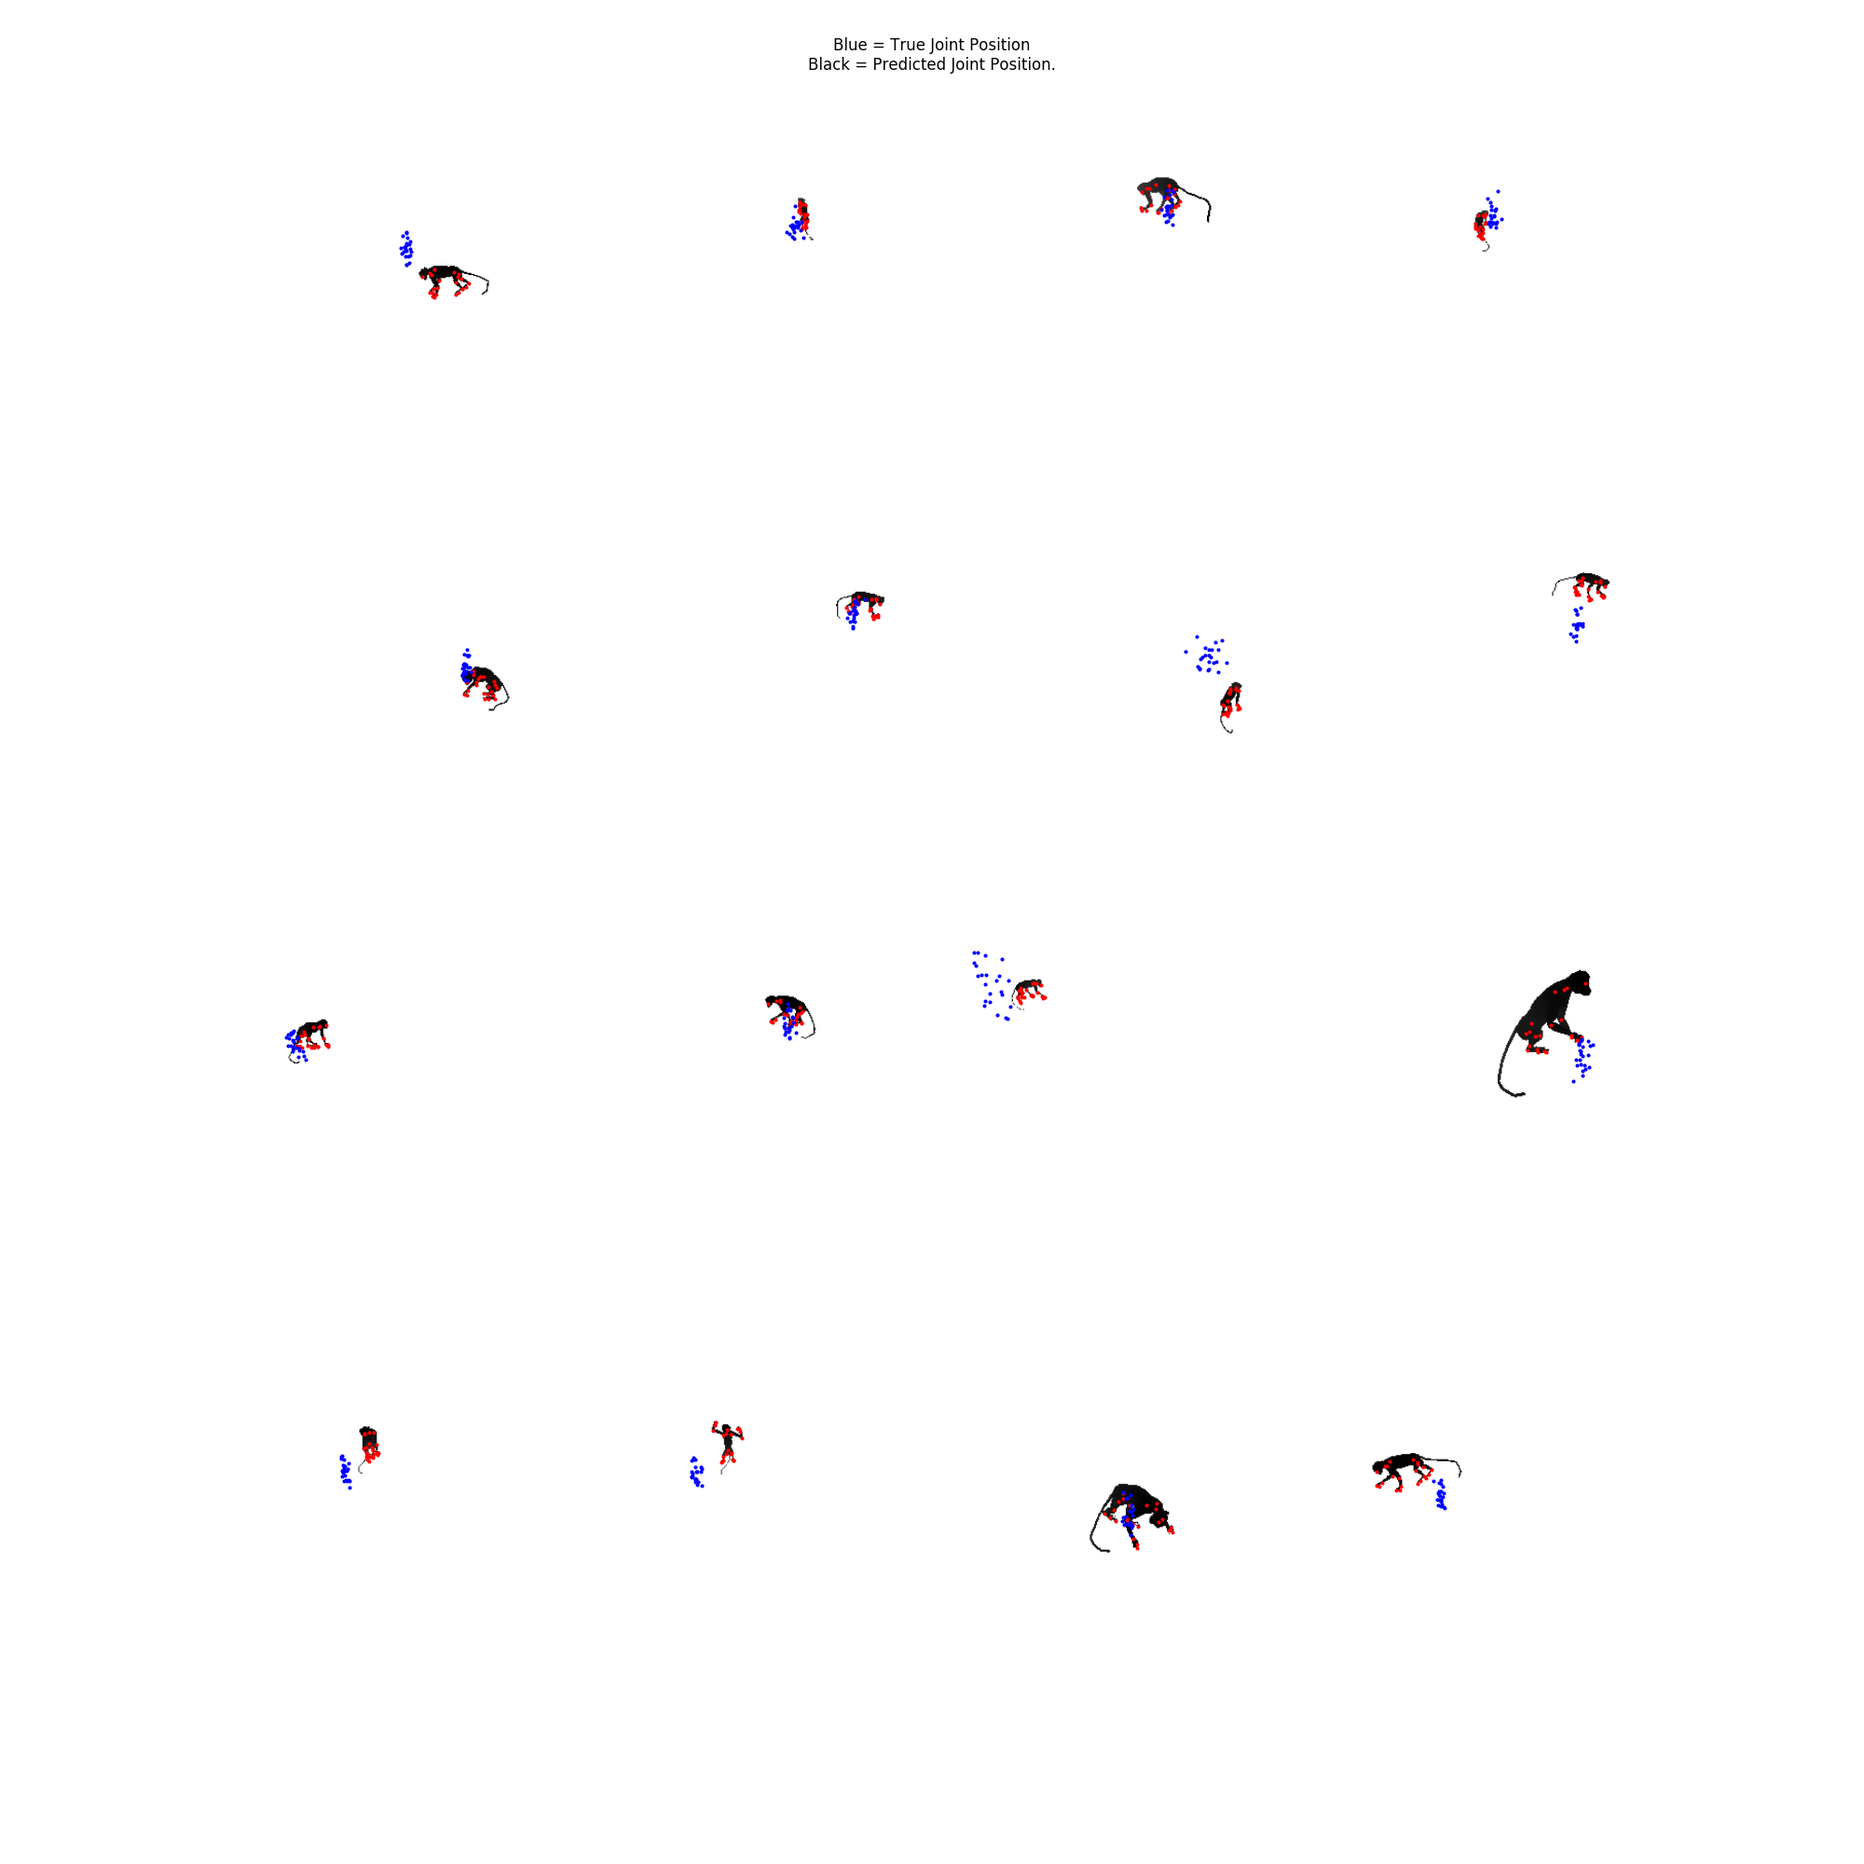
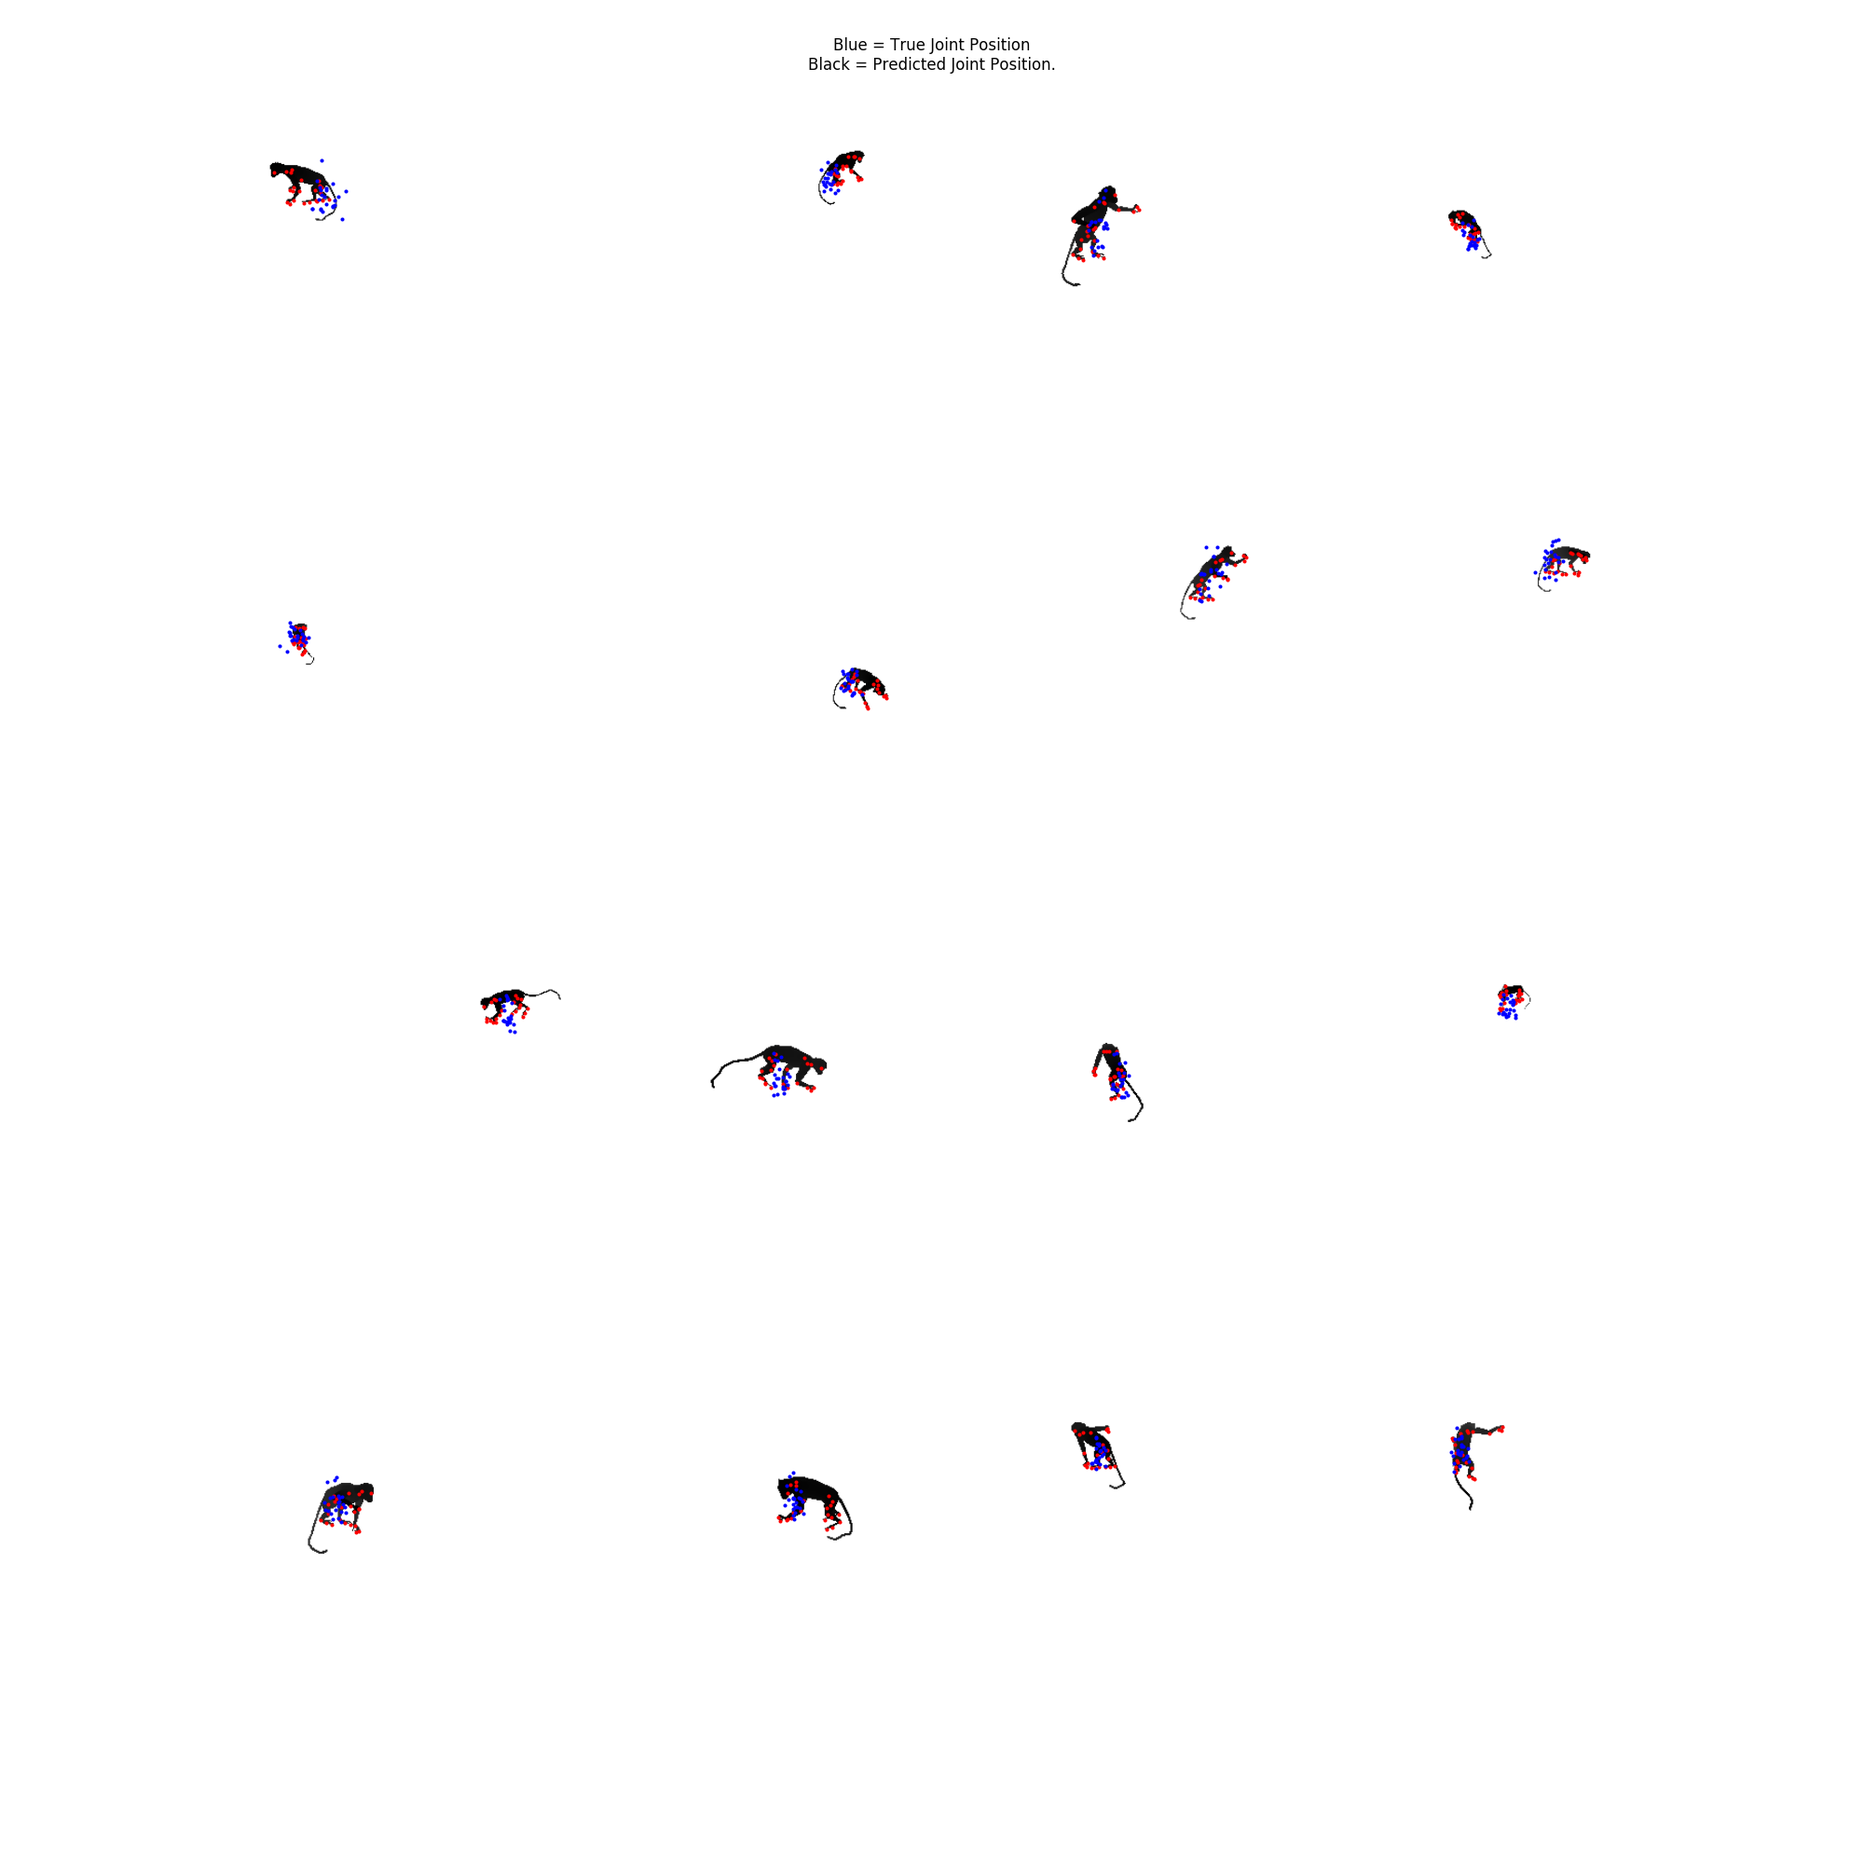
New high-res models.

diff --git a/models/cnn_multiscale_high_res.py b/models/cnn_multiscale_high_res.py
@@ -1,0 +1,269 @@
+import numpy as np
+import tensorflow as tf
+import gc
+
+
+class model_struct:
+    """
+    A trainable version VGG16.
+    """
+
+    def __init__(
+                self, vgg16_npy_path=None, trainable=True,
+                fine_tune_layers=None):
+        if vgg16_npy_path is not None: 
+            print 'Ignoring vgg16_npy_path (not using a vgg!).'
+        self.data_dict = None
+
+        self.var_dict = {}
+        self.trainable = trainable
+        self.VGG_MEAN = [103.939, 116.779, 123.68]
+ 
+    def __getitem__(self, name):
+        return getattr(self, name)
+
+    def __contains__(self, name): 
+        return hasattr(self, name)
+
+    def build(
+            self,
+            rgb,
+            occlusions=True,
+            output_shape=None,
+            train_mode=None,
+            batchnorm=None,
+            fe_keys=None,
+            hr_fe_keys=['pool2', 'pool3', 'pool4', 'pool5'],
+            lr_fe_keys=['lr_pool2', 'lr_pool3']
+            ):
+        """
+        load variable from npy to build the VGG
+
+        :param rgb: rgb image [batch, height, width, 3] values scaled [0, 1]
+        :param train_mode: a bool tensor, usually a placeholder:
+        :if True, dropout will be turned on
+        """
+        if fe_keys is not None:
+            print 'I see you supplied feature extractor keys... These are being ignored.'
+        if output_shape is None: 
+            output_shape = 1
+        if occlusions is not None:
+            occlusion_shape = output_shape // 3
+
+        # rgb_scaled = rgb * 255.0  # Scale up to imagenet's uint8
+
+        # # Convert RGB to BGR
+        # red, green, blue = tf.split(rgb_scaled, 3, 3)
+        # assert red.get_shape().as_list()[1:] == [224, 224, 1]
+        # assert green.get_shape().as_list()[1:] == [224, 224, 1]
+        # assert blue.get_shape().as_list()[1:] == [224, 224, 1]
+        # bgr = tf.concat([
+        #     blue - self.VGG_MEAN[0],
+        #     green - self.VGG_MEAN[1],
+        #     red - self.VGG_MEAN[2],
+        # ], 3, name='bgr')
+        # bgr = tf.split(rgb, 3, 3)[0]
+
+        # assert bgr.get_shape().as_list()[1:] == [224, 224, 3]
+        input_bgr = tf.identity(rgb, name="lrp_input")
+        # Main Head
+        self.conv1_1 = self.conv_layer(input_bgr, int(input_bgr.get_shape()[-1]), 64, "conv1_1")
+        self.conv1_2 = self.conv_layer(self.conv1_1, 64, 64, "conv1_2")
+        self.pool1 = self.max_pool(self.conv1_2, 'pool1')
+
+        self.conv2_1 = self.conv_layer(self.pool1, 64, 128, "conv2_1")
+        self.conv2_2 = self.conv_layer(self.conv2_1, 128, 128, "conv2_2")
+        self.pool2 = self.max_pool(self.conv2_2, 'pool2')
+
+        self.conv3_1 = self.conv_layer(self.pool2, 128, 128, "conv3_1")
+        self.conv3_2 = self.conv_layer(self.conv3_1, 128, 128, "conv3_2")
+        self.pool3 = self.max_pool(self.conv3_2, 'pool3')
+
+        self.conv4_1 = self.conv_layer(self.pool3, 128, 256, "conv4_1")
+        self.conv4_2 = self.conv_layer(self.conv4_1, 256, 256, "conv4_2")
+        self.pool4 = self.max_pool(self.conv4_2, 'pool4')
+
+        self.conv5_1 = self.conv_layer(self.pool3, int(self.pool4.get_shape()[-1]), 256, "conv5_1")
+        self.conv5_2 = self.conv_layer(self.conv4_1, int(self.conv5_1.get_shape()[-1]), 256, "conv5_2")
+        self.pool5 = self.max_pool(self.conv5_2, 'pool5')
+
+        # High-res feature encoder
+        resize_size = [int(x) for x in self[hr_fe_keys[np.argmax(
+            [int(self[x].get_shape()[0]) for x in hr_fe_keys])]].get_shape()]
+        new_size = np.asarray([resize_size[1], resize_size[2]])
+
+        high_fe_layers = [self.batchnorm(
+            tf.image.resize_bilinear(
+                self[x], new_size)) for x in hr_fe_keys]
+        self.high_feature_encoder = tf.concat(high_fe_layers, 3)
+
+        # High-res 1x1 X 2
+        self.high_feature_encoder_1x1_1 = self.conv_layer(
+            self.high_feature_encoder,
+            int(self.high_feature_encoder.get_shape()[-1]),
+            256,
+            "high_feature_encoder_1x1_1",
+            filter_size=1)
+        if train_mode is not None:
+            self.high_feature_encoder_1x1_1 = tf.cond(
+                train_mode,
+                lambda: tf.nn.dropout(self.high_feature_encoder_1x1_1, 0.5), lambda: self.high_feature_encoder_1x1_1)
+        self.high_1x1_1_pool = self.max_pool(self.high_feature_encoder_1x1_1, 'high_1x1_1_pool')        
+        self.high_feature_encoder_1x1_2 = self.conv_layer(
+            self.high_1x1_1_pool,
+            int(self.high_1x1_1_pool.get_shape()[-1]),
+            256,
+            "high_feature_encoder_1x1_2",
+            filter_size=1)
+        if train_mode is not None:
+            self.high_feature_encoder_1x1_2 = tf.cond(
+                train_mode,
+                lambda: tf.nn.dropout(self.high_feature_encoder_1x1_2, 0.5), lambda: self.high_feature_encoder_1x1_2)
+        self.high_1x1_2_pool = tf.contrib.layers.flatten(
+            self.max_pool(self.high_feature_encoder_1x1_2, 'high_1x1_2_pool'))
+        self.fc8 = self.fc_layer(
+            self.high_1x1_2_pool,
+            int(self.high_1x1_2_pool.get_shape()[-1]),
+            output_shape,
+            "fc8") 
+
+        if occlusions is not None:
+            # Occlusion head
+            self.fc8_occlusion = self.fc_layer(
+                self.high_feature_encoder_joints,
+                int(self.high_feature_encoder_joints.get_shape()[-1]),
+                occlusion_shape,
+                "fc8_occlusion_scores")
+        self.data_dict = None
+
+    def batchnorm(self, layer):
+        m, v = tf.nn.moments(layer, [0])
+        return tf.nn.batch_normalization(layer, m, v, None, None, 1e-3)
+
+    def avg_pool(self, bottom, name):
+        return tf.nn.avg_pool(
+            bottom, ksize=[1, 2, 2, 1],
+            strides=[1, 2, 2, 1], padding='SAME', name=name)
+
+    def max_pool(self, bottom, name):
+        return tf.nn.max_pool(
+            bottom, ksize=[1, 2, 2, 1],
+            strides=[1, 2, 2, 1], padding='SAME', name=name)
+
+    def conv_layer(
+                    self, bottom, in_channels,
+                    out_channels, name, filter_size=3, batchnorm=None, stride=[1, 1, 1, 1]):
+        with tf.variable_scope(name):
+            filt, conv_biases = self.get_conv_var(
+                filter_size, in_channels, out_channels, name)
+
+            conv = tf.nn.conv2d(bottom, filt, stride, padding='SAME')
+            bias = tf.nn.bias_add(conv, conv_biases)
+            relu = tf.nn.relu(bias)
+
+            if batchnorm is not None:
+                if name in batchnorm:
+                    relu = self.batchnorm(relu)
+
+            return relu
+
+    def fc_layer(self, bottom, in_size, out_size, name):
+        with tf.variable_scope(name):
+            weights, biases = self.get_fc_var(in_size, out_size, name)
+
+            x = tf.reshape(bottom, [-1, in_size])
+            fc = tf.nn.bias_add(tf.matmul(x, weights), biases)
+
+            return fc
+
+    def get_conv_var(
+            self, filter_size, in_channels, out_channels,
+            name, init_type='xavier'):
+        if init_type == 'xavier':
+            weight_init = [
+                [filter_size, filter_size, in_channels, out_channels],
+                tf.contrib.layers.xavier_initializer_conv2d(uniform=False)]
+        else:
+            weight_init = tf.truncated_normal(
+                [filter_size, filter_size, in_channels, out_channels],
+                0.0, 0.001)
+        bias_init = tf.truncated_normal([out_channels], .0, .001)
+        filters = self.get_var(weight_init, name, 0, name + "_filters")
+        biases = self.get_var(bias_init, name, 1, name + "_biases")
+
+        return filters, biases
+
+    def get_fc_var(self, in_size, out_size, name, init_type='xavier'):
+        if init_type == 'xavier':
+            weight_init = [
+                [in_size, out_size],
+                tf.contrib.layers.xavier_initializer(uniform=False)]
+        else:
+            weight_init = tf.truncated_normal(
+                [in_size, out_size], 0.0, 0.001)
+        bias_init = tf.truncated_normal([out_size], .0, .001)
+        weights = self.get_var(weight_init, name, 0, name + "_weights")
+        biases = self.get_var(bias_init, name, 1, name + "_biases")
+
+        return weights, biases
+
+    def get_var(
+            self, initial_value, name, idx,
+            var_name, in_size=None, out_size=None):
+        if self.data_dict is not None and name in self.data_dict:
+            value = self.data_dict[name][idx]
+        else:
+            value = initial_value
+
+        if self.trainable:
+            # get_variable, change the boolian to numpy
+            if type(value) is list:
+                var = tf.get_variable(
+                    name=var_name, shape=value[0], initializer=value[1])
+            else:
+                var = tf.get_variable(name=var_name, initializer=value)
+        else:
+            var = tf.constant(value, dtype=tf.float32, name=var_name)
+
+        self.var_dict[(name, idx)] = var
+
+        return var
+
+    def save_npy(self, sess, npy_path="./vgg16-save.npy"):
+        assert isinstance(sess, tf.Session)
+
+        data_dict = {}
+        num_files = 0
+
+        for (name, idx), var in self.var_dict.items():
+            # print(var.get_shape())
+            if name == 'fc6':
+                np.save(npy_path+str(num_files), data_dict)
+                data_dict.clear()
+                gc.collect()
+                num_files += 1
+                for i, item in enumerate(tf.split(var, 8, 0)):
+                    # print(i)
+                    name = 'fc6-'+ str(i)
+                    if name not in data_dict.keys():
+                        data_dict[name] = {}
+                    data_dict[name][idx] = sess.run(item)
+                    np.save(npy_path+str(num_files), data_dict)
+                    data_dict.clear()
+                    gc.collect()
+                    num_files += 1
+            else :
+                var_out = sess.run(var)
+                if name not in data_dict.keys():
+                    data_dict[name] = {}
+                data_dict[name][idx] = var_out
+
+        np.save(npy_path+str(num_files), data_dict)
+        print("file saved", npy_path)
+        return npy_path
+
+    def get_var_count(self):
+        count = 0
+        for v in self.var_dict.values():
+            count += reduce(lambda x, y: x * y, v.get_shape().as_list())
+        return count

diff --git a/ops/tf_model_cnn_joints_lh_res.py b/ops/tf_model_cnn_joints_lh_res.py
@@ -109,10 +109,22 @@ def train_and_eval(config):
 
             # Prepare the loss functions:::
             loss_list, loss_label = [], []
+            # 1. High-res head
+            if config.model_type == 'cnn_multiscale_low_high_res_mid_loss':
+                loss_list += [tf.nn.l2_loss(
+                    model.high_feature_encoder_joints - train_labels)]
+                loss_label += ['high-res head']
+                # 2. Low-res head
+                loss_list += [tf.nn.l2_loss(
+                    model.low_feature_encoder_joints - train_labels)]
+                loss_label += ['low-res head']
+            # 3. Combined head loss -- joints
             loss_list += [tf.nn.l2_loss(
                 model.fc8 - train_labels)]
             loss_label += ['combined head']
             # 4. Combined head loss -- occlusions
+            # loss_list += [tf.nn.l2_loss(
+            #     model.fc8_occlusion - train_occlusions)]
             loss_list += [tf.reduce_mean(
                 tf.nn.sigmoid_cross_entropy_with_logits(
                     labels=train_occlusions,
@@ -215,12 +227,14 @@ def train_and_eval(config):
     try:
         while not coord.should_stop():
             start_time = time.time()
-            _, loss_value, train_acc, im, yhat, ytrue, occhat, occtrue = sess.run([
+            _, loss_value, train_acc, im, yhat, yhrhat, ylrhat, ytrue, occhat, occtrue = sess.run([
                 train_op,
                 loss,
                 train_score,
                 train_images,
                 model.fc8,
+                model.high_feature_encoder_joints,
+                model.low_feature_encoder_joints,
                 train_labels,
                 model.fc8_occlusion,
                 train_occlusions
@@ -271,6 +285,10 @@ def train_and_eval(config):
                     os.path.join(results_dir, 'im_%s' % step), im)
                 np.save(
                     os.path.join(results_dir, 'yhat_%s' % step), yhat)
+                np.save(
+                    os.path.join(results_dir, 'yhrhat_%s' % step), yhat)
+                np.save(
+                    os.path.join(results_dir, 'ylrhat_%s' % step), yhat)
                 np.save(
                     os.path.join(results_dir, 'ytrue_%s' % step), ytrue)
                 np.save(

diff --git a/visualization/monkey_mosaic.py b/visualization/monkey_mosaic.py
@@ -45,9 +45,9 @@ def plot_coordinates(ax, vector, color):
 def main(
         num_files=1,
         output_file='monkey_mosaic.png',
-        monkey_dir='/media/data_cifs/monkey_tracking/batches/test/2017_06_14_12_02_13',
+        monkey_dir='/media/data_cifs/monkey_tracking/batches/test/2017_06_14_14_48_44',
         normalize=False,
-        unnormalize=True
+        unnormalize=False
         ):
 
     if unnormalize:
